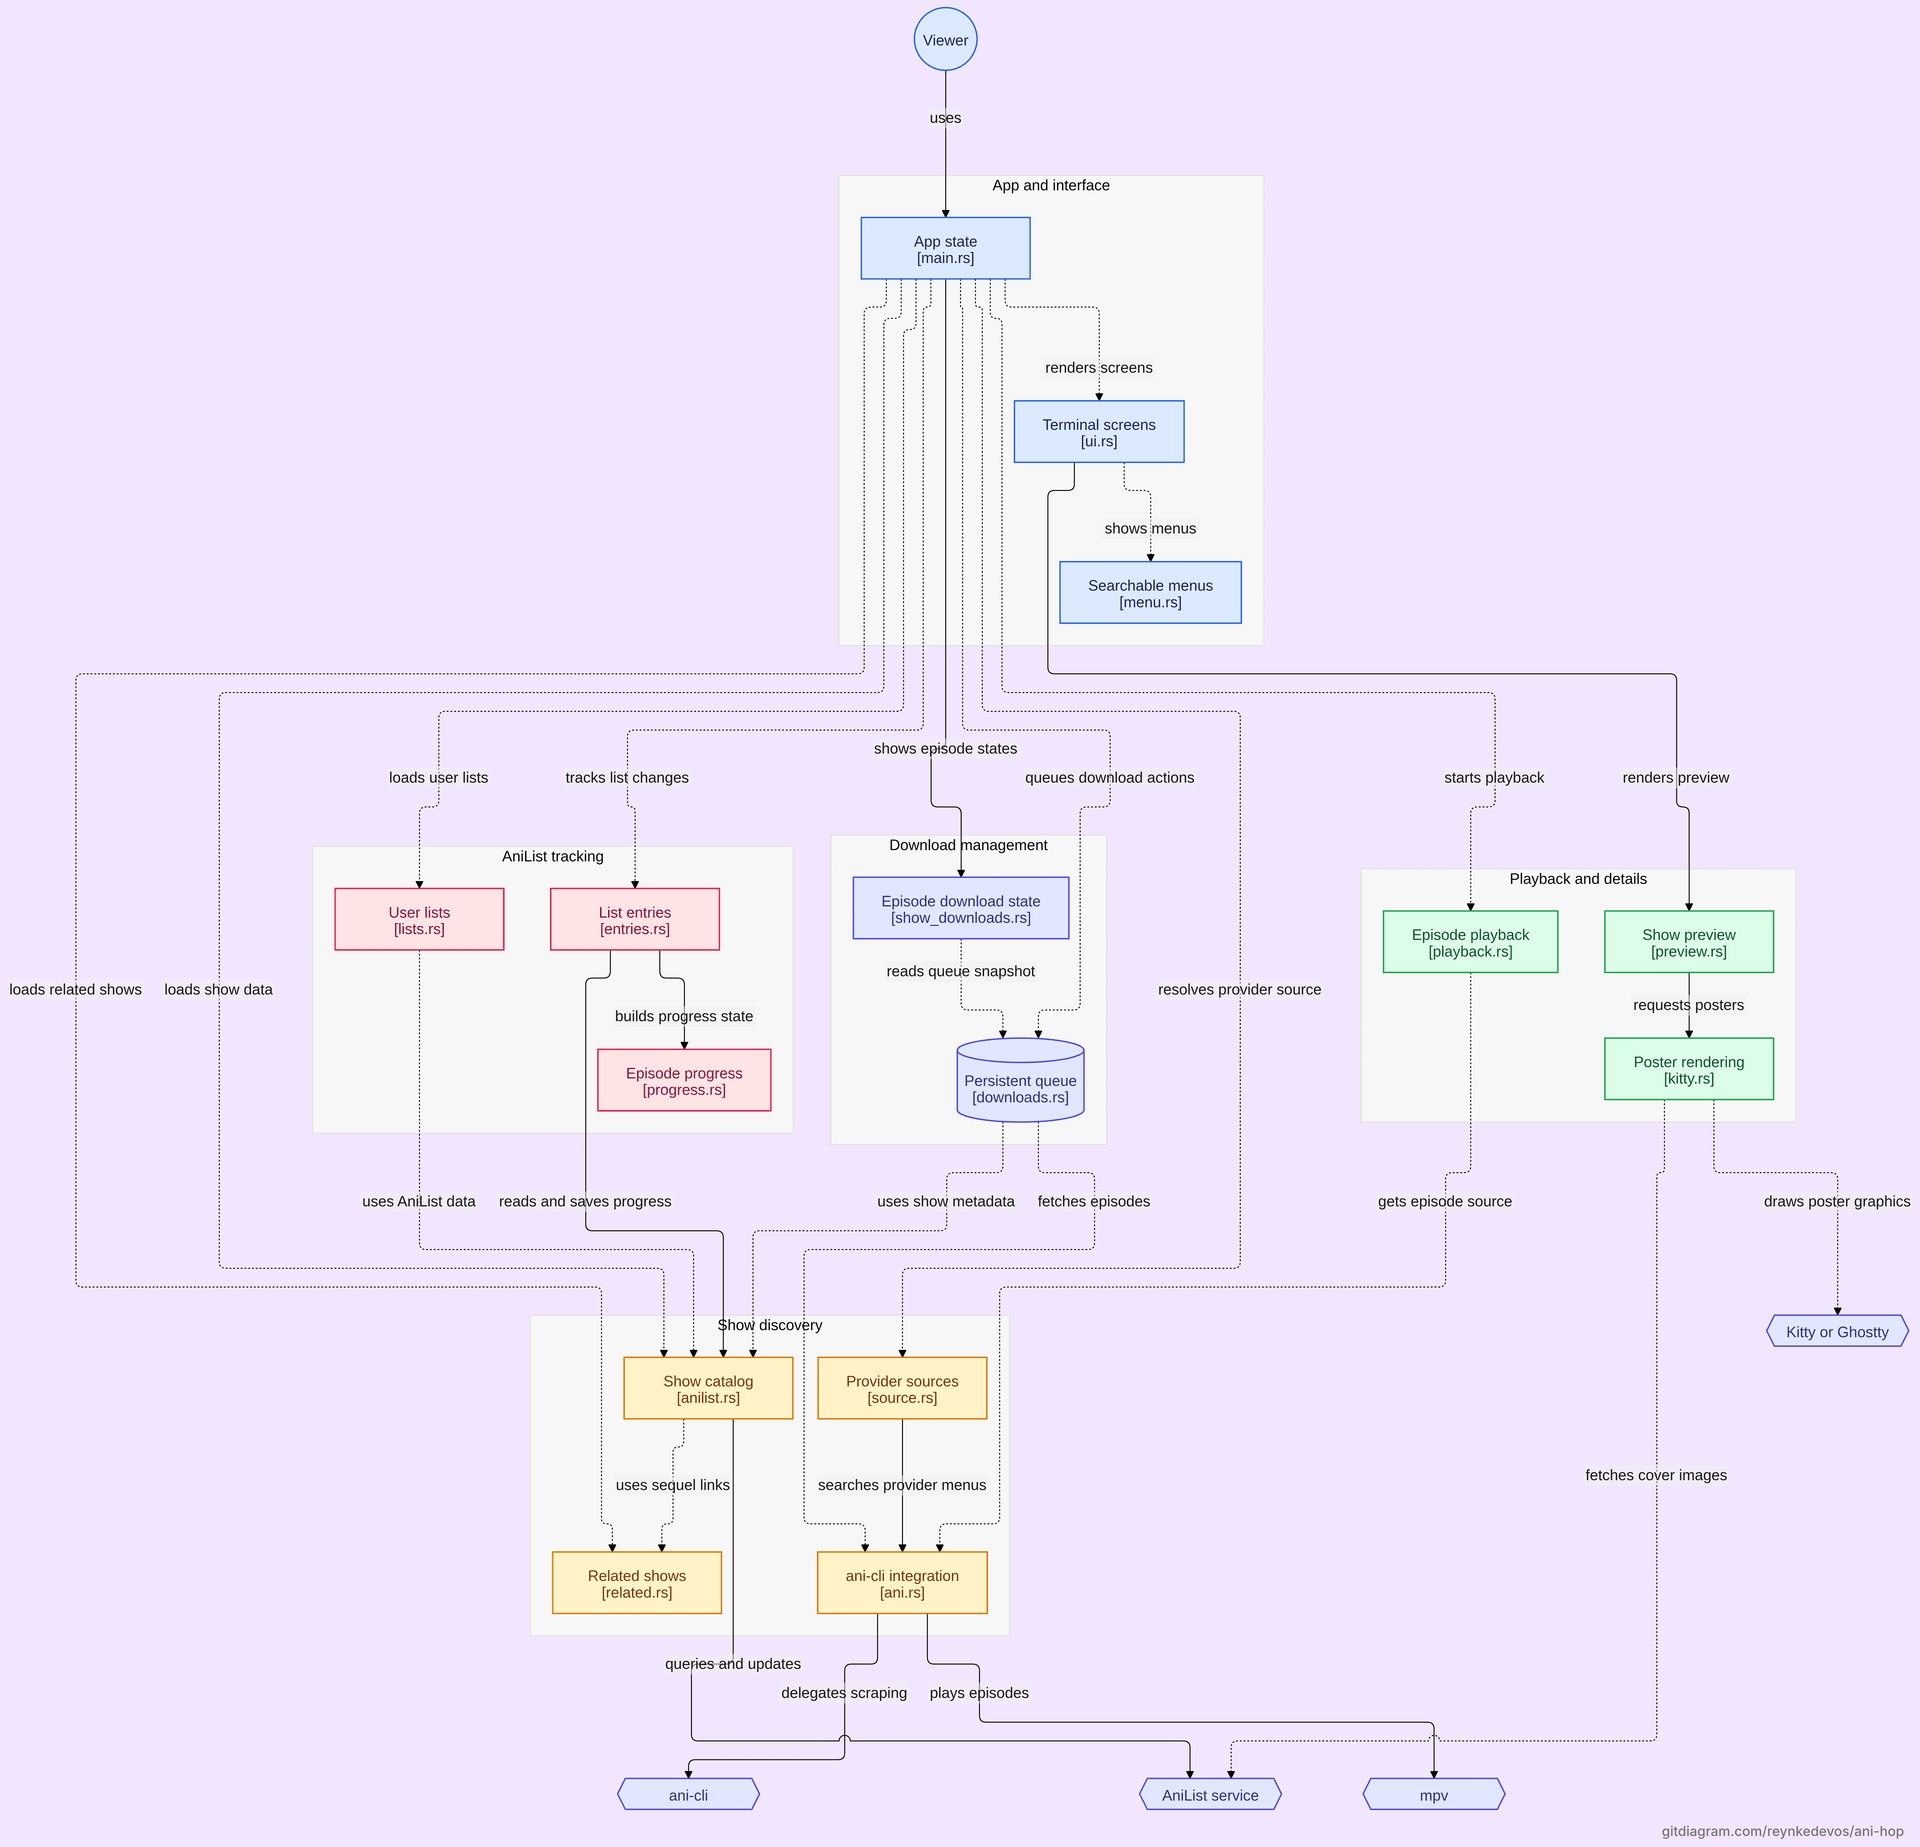
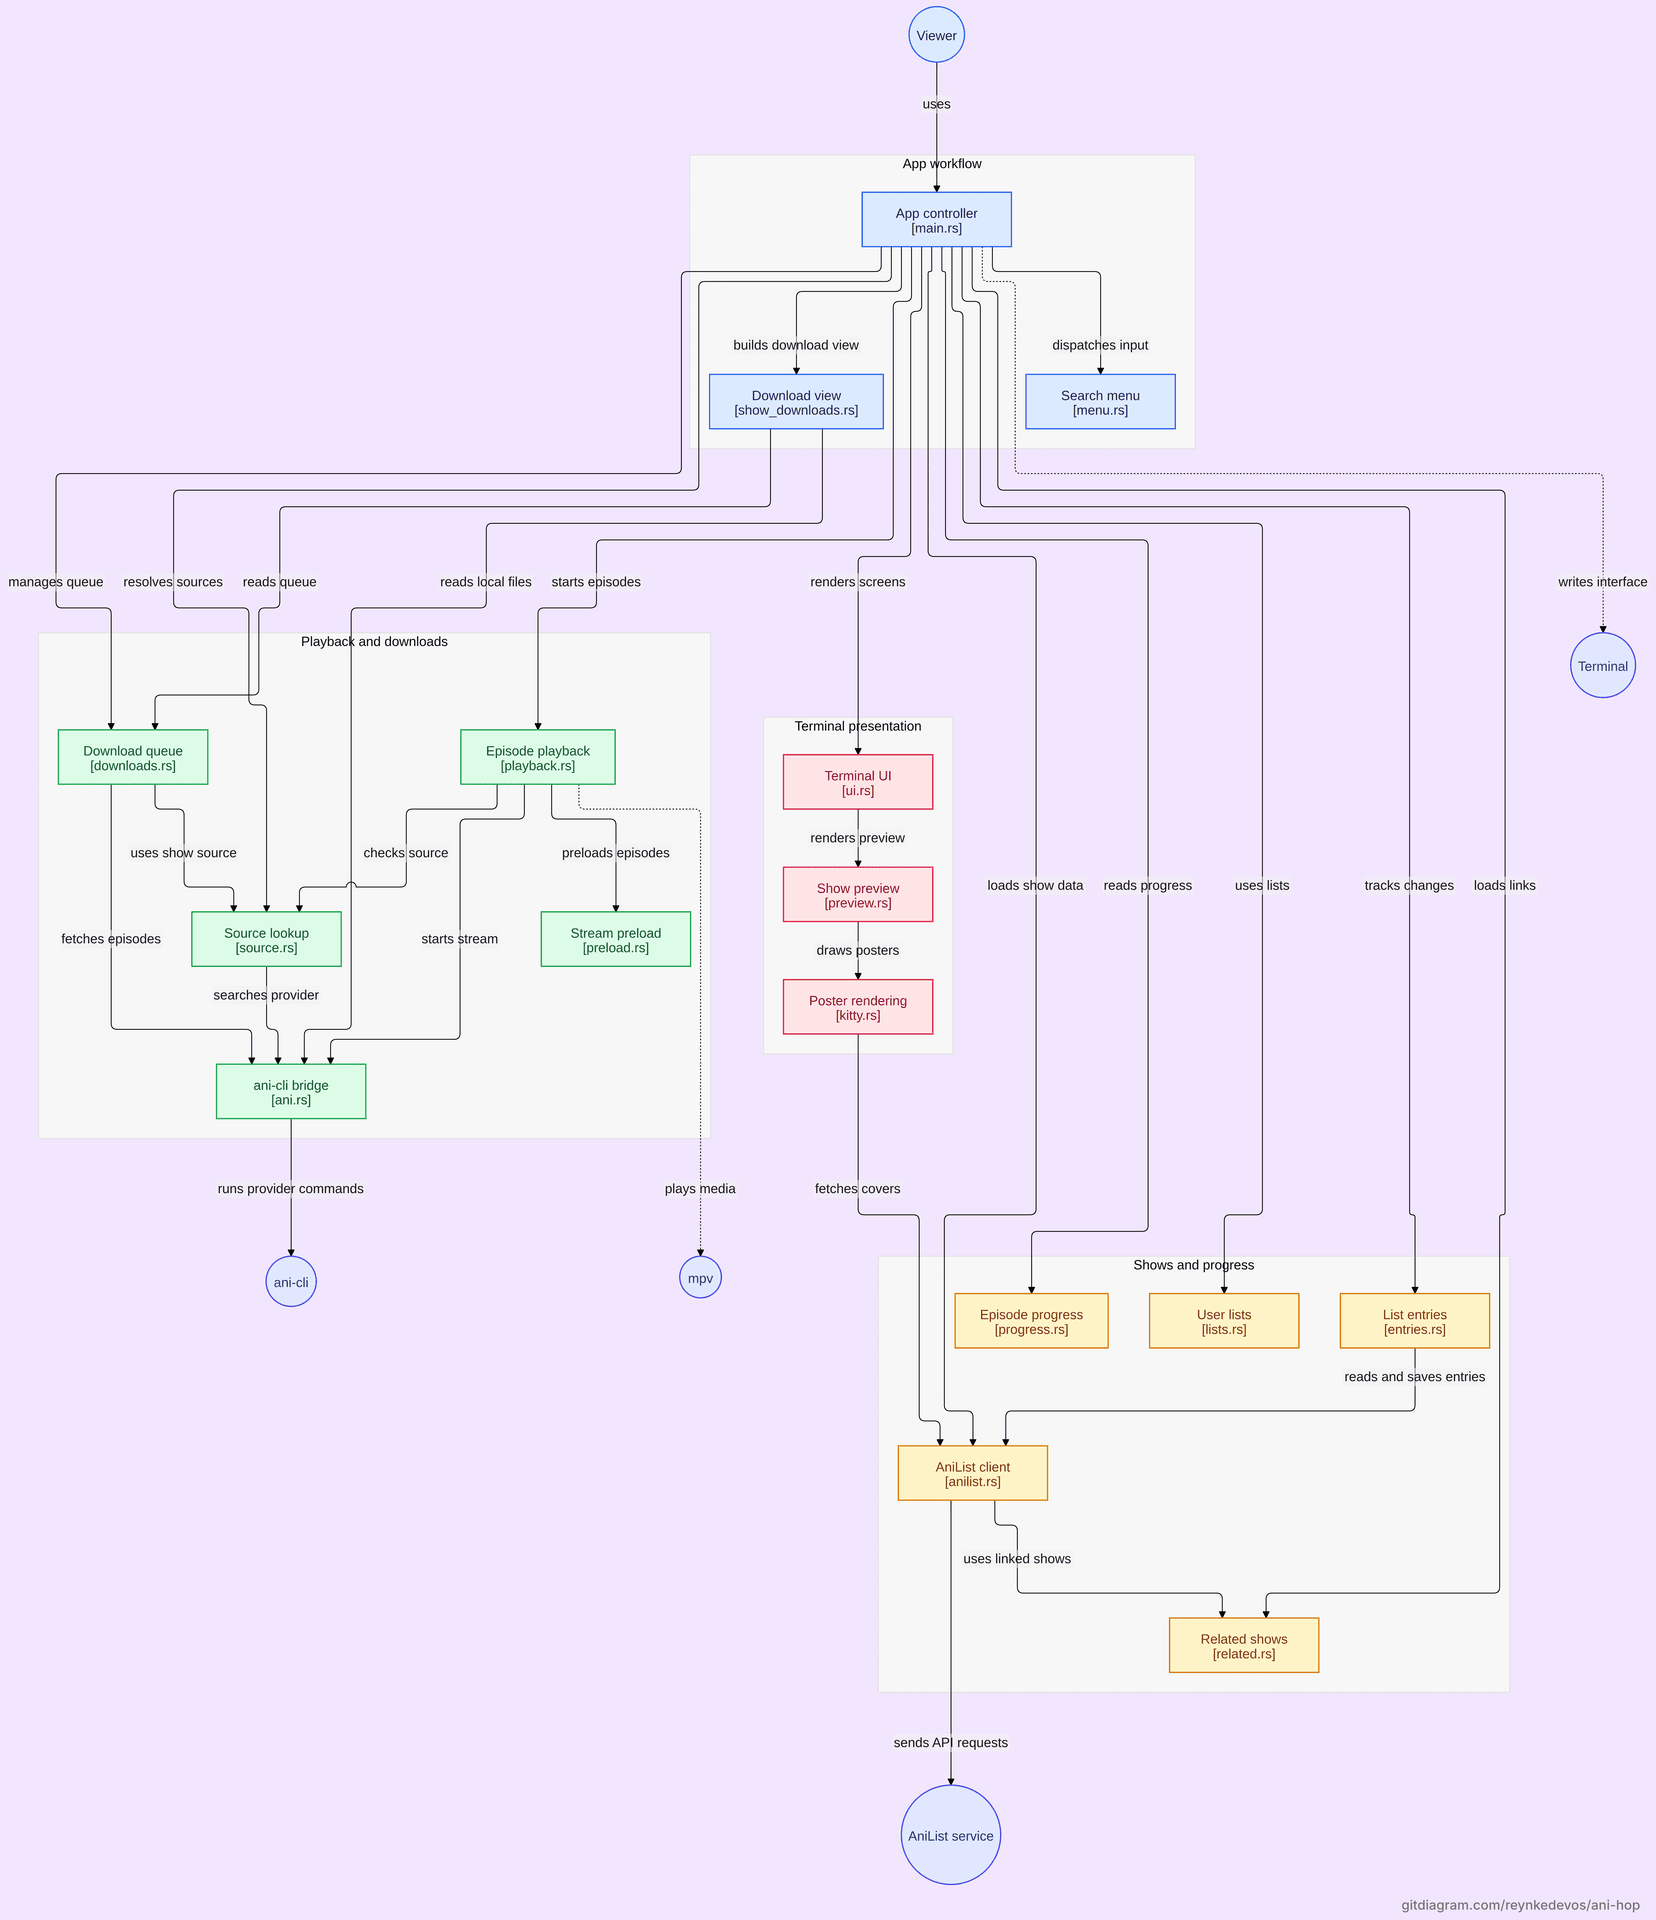
The README's features are a table, and the architecture diagram is regenerated at 1656×1920 (#50)
* The README's features are a table, and the architecture diagram is regenerated at 1656×1920

The mise section no longer gives the update command, which ani-hop's own update notice already shows. The diagram is resized from a 7986×9261, 16 MB export to 79 KB, with pngquant and oxipng.

* The README's comparison no longer mentions spoilers

diff --git a/README.md b/README.md
@@ -4,14 +4,16 @@
 
 A fast terminal UI for anime: find a show, then stream or download it through [ani-cli](https://github.com/pystardust/ani-cli).
 
-- **No scraper of its own.** Every source comes from `ani-cli`, which a large community keeps working on. When a site changes, updating `ani-cli` is enough. One small exception: if `ani-cli` finds no subtitles for an episode, ani-hop gets English fallback subtitles itself.
-- **Posters in the terminal.** In Ghostty and kitty, even inside tmux/herdr, though slower there.
-- **AniList built in.** Your lists, with watched episodes marked. The main menu's first row plays your next episode. After each episode it asks to save your progress, and "Watched up to…" sets it for many episodes at once, or back to none.
-- **Jump to related seasons and shows.** A show's page lists its seasons in story order, then its movies, OVAs and side stories.
-- **Find an episode by what happens in it.** The filter searches the titles and summaries of watched episodes. Unwatched ones stay blank, so nothing spoils.
-- **Downloads in the background.** Pause them or quit; unfinished ones come back after a restart.
-- **Sub or dub.** Japanese or English audio, with or without subtitles, for all shows or just one.
-- **Skips openings and endings.** With `ani-skip`, in streams and downloads alike.
+| Feature | What it does |
+| --- | --- |
+| **No scraper of its own** | Every source comes from `ani-cli`, which a large community keeps working on. When a site changes, updating `ani-cli` is enough. One small exception: if `ani-cli` finds no subtitles for an episode, ani-hop gets English fallback subtitles itself. |
+| **Posters in the terminal** | In Ghostty and kitty, even inside tmux/herdr, though slower there. |
+| **AniList built in** | Your lists, with watched episodes marked. The main menu's first row plays your next episode. After each episode it asks to save your progress, and "Watched up to…" sets it for many episodes at once, or back to none. |
+| **Jump to related seasons and shows** | A show's page lists its seasons in story order, then its movies, OVAs and side stories. |
+| **Find an episode by what happens in it** | The filter searches the titles and summaries of watched episodes. Unwatched ones stay blank, so nothing spoils. |
+| **Downloads in the background** | Pause them or quit; unfinished ones come back after a restart. |
+| **Sub or dub** | Japanese or English audio, with or without subtitles, for all shows or just one. |
+| **Skips openings and endings** | With `ani-skip`, in streams and downloads alike. |
 
 ## Install
 
@@ -29,7 +31,7 @@ Installs ani-hop, ani-cli, mpv and the rest. Run it again to update; ani-hop tel
 mise use -g github:ReynkeDeVos/ani-hop
 ```
 
-For Linux (x86-64 or ARM) and Apple silicon Macs. Installs only ani-hop. It checks for ani-cli, mpv and the rest at the start and offers to install what's missing. Update with `mise up github:ReynkeDeVos/ani-hop`. By default, mise only installs releases that are at least a day old.
+For Linux (x86-64 or ARM) and Apple silicon Macs. Installs only ani-hop. It checks for ani-cli, mpv and the rest at the start and offers to install what's missing.
 
 ### macOS (Apple silicon)
 
@@ -93,7 +95,7 @@ Looking for alternatives? These are all worth a look:
 - [anitrack](https://github.com/MiguelRegueiro/anitrack-cli): a simple companion that remembers where you stopped in `ani-cli`.
 - [ani-gui](https://github.com/JoaoPucci/ani-gui): a full desktop app with a built-in player and watch parties.
 
-Like mal-tui and anitrack, ani-hop leaves finding streams to `ani-cli`, so when a site changes, updating `ani-cli` is enough. One thing I haven't found in any of them: searching episodes by what happens in them, without spoilers.
+Like mal-tui and anitrack, ani-hop leaves finding streams to `ani-cli`, so when a site changes, updating `ani-cli` is enough. One thing I haven't found in any of them: searching episodes by what happens in them.
 
 <sub>Curious how the code is structured? Here is the architecture diagram:</sub>
 
